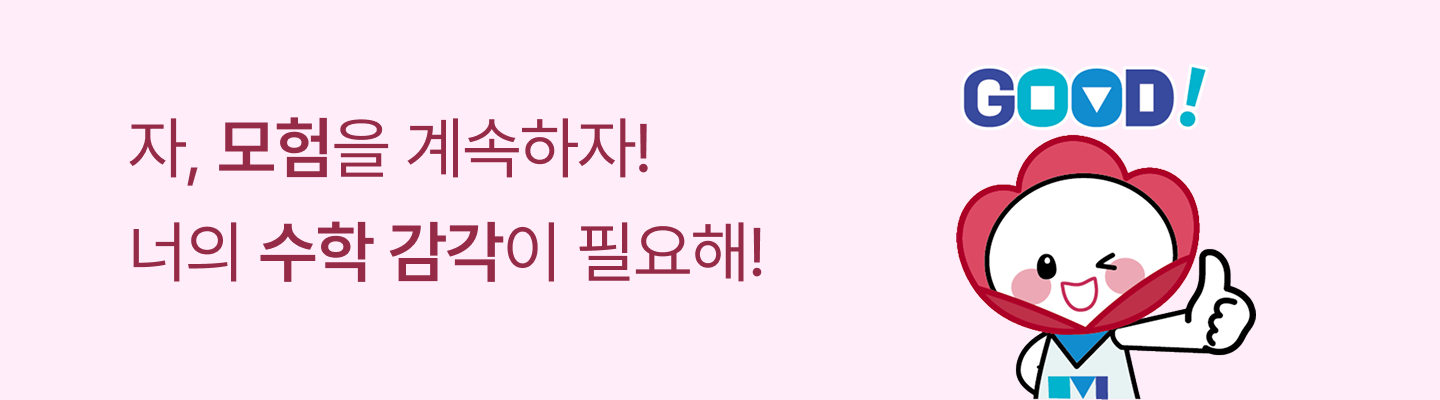
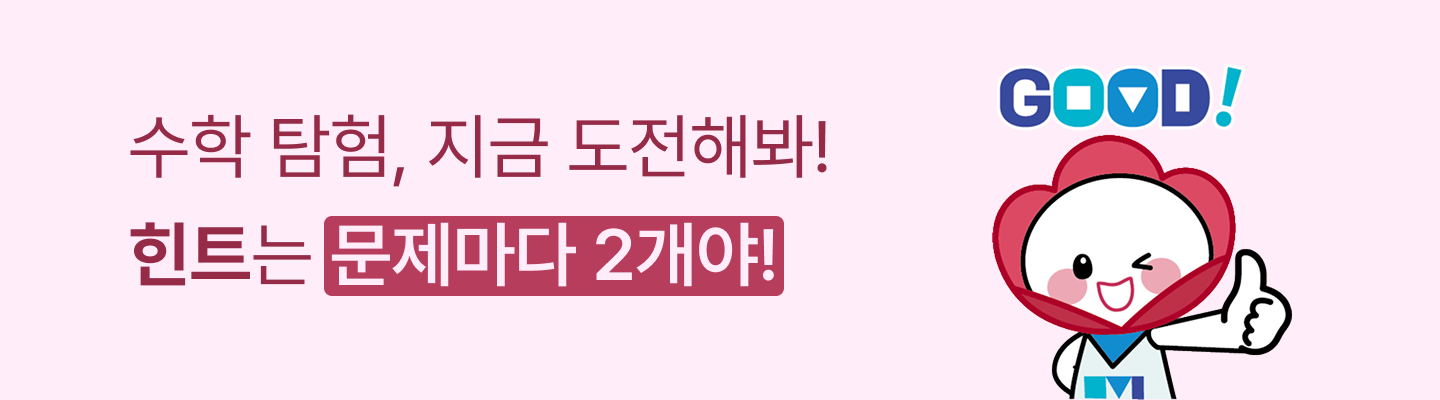
high_elementary_update

Changed region(s): [[0.6562, 0.15, 0.9062, 1.0], [0.0938, 0.54, 0.5625, 0.75], [0.0938, 0.27, 0.5938, 0.45]]

diff --git a/lib/mission/elementary_high/elementary_high_mission.dart b/lib/mission/elementary_high/elementary_high_mission.dart
@@ -3,6 +3,7 @@ import 'package:flutter/services.dart';
 import 'dart:convert';
 import 'package:math_escape/widgets/elementary_high_hint_popup.dart';
 import 'package:math_escape/widgets/elementary_high_answer_popup.dart';
+import 'package:material_symbols_icons/material_symbols_icons.dart';
 
 // MissionItem class as provided in the original code
 class MissionItem {
@@ -86,32 +87,30 @@ class _ElementaryHighMissionScreenState
 
   void _showHintDialog() {
     final MissionItem currentMission = missionList[currentQuestionIndex];
+
+    int newHintCounter = (hintCounter % 2) + 1;
+
     setState(() {
-      hintCounter++;
+      hintCounter = newHintCounter;
     });
 
     String title;
     String content;
 
-    if (hintCounter == 1) {
-      title = '첫 번째 힌트';
+    if (newHintCounter == 1) {
+      title = '푸리 힌트 1 / 2';
       content = currentMission.hint1;
-    } else if (hintCounter == 2) {
-      title = '마지막 힌트';
-      content = currentMission.hint2;
     } else {
-      // 힌트를 2번 이상 누른 경우, 마지막 힌트를 계속 보여줍니다.
-      title = '마지막 힌트';
+      title = '푸리 힌트 2 / 2';
       content = currentMission.hint2;
     }
 
     showDialog(
       context: context,
-      builder: (_) =>
-          HintDialog(
-            hintTitle: title,
-            hintContent: content,
-          ),
+      builder: (_) => HintDialog(
+        hintTitle: title,
+        hintContent: content,
+      ),
     );
   }
 
@@ -194,8 +193,9 @@ class _ElementaryHighMissionScreenState
                       width: double.infinity,
                       fit: BoxFit.cover,
                     ),
+                    const SizedBox(height: 24),
                     Padding(
-                      padding: const EdgeInsets.all(16.0),
+                      padding: const EdgeInsets.all(8.0),
                       child: Column(
                         crossAxisAlignment: CrossAxisAlignment.stretch,
                         children: [
@@ -257,7 +257,7 @@ class _ElementaryHighMissionScreenState
                                         borderRadius: BorderRadius.circular(
                                             8.0),
                                         borderSide: const BorderSide(
-                                            color: Colors.transparent),
+                                            color: const Color(0xffaaaaaa)),
                                       ),
                                       focusedBorder: OutlineInputBorder(
                                         borderRadius: BorderRadius.circular(
@@ -294,7 +294,7 @@ class _ElementaryHighMissionScreenState
                   height: 56,
                   child: ElevatedButton(
                     style: ElevatedButton.styleFrom(
-                      backgroundColor: Colors.white,
+                      backgroundColor: const Color(0xffffedfa),
                       elevation: 1,
                       shape: RoundedRectangleBorder(
                         borderRadius: BorderRadius.circular(12.0),
@@ -302,15 +302,23 @@ class _ElementaryHighMissionScreenState
                       ),
                     ),
                     onPressed: _showHintDialog,
-                    child: Text(
-                      '힌트보기',
-                      style: TextStyle(
-                          color: mainColor,
-                          fontSize: 16,
-                          fontWeight: FontWeight.bold),
-                    ),
+                      child: Row(
+                        mainAxisSize: MainAxisSize.min, // 버튼 크기를 내용에 맞춤
+                        children: [
+                          Icon(Symbols.tooltip_2, color: mainColor, size: 18), // 아이콘
+                          SizedBox(width: 4), // 간격
+                          Text(
+                            '힌트',
+                            style: TextStyle(
+                              color: mainColor,
+                              fontSize: 16,
+                              fontWeight: FontWeight.bold,
+                            ),
+                          ),
+                        ],
+                      ),
                   ),
-                ),
+                )
               ),
               const SizedBox(width: 16),
               Expanded(

diff --git a/README.md b/README.md
@@ -23,9 +23,12 @@ math_escape/
 │   │   ├── high/
 │   │   │   ├── high_mission_answer.dart
 │   │   │   └── high_mission_question.dart
-│   │   └── middle/
-│   │       ├── middle_mission_answer.dart
-│   │       └── middle_mission_question.dart
+│   │   ├── middle/
+│   │   │   ├── middle_mission_answer.dart
+│   │   │   └── middle_mission_question.dart
+│   │   └── elementary_high/
+│   │       ├── elementary_high_mission_answer.dart
+│   │       └── elementary_high_mission_question.dart
 │   ├── screens/
 │   │   ├── splash_screen.dart
 │   │   ├── main_screen.dart
@@ -43,30 +46,51 @@ math_escape/
 │   │   │   └── answer_widgets.dart
 │   │   ├── middle/
 │   │   ├── elementary_high/
+│   │   │   ├── elementary_high_mission.dart
+│   │   │   └── elementary_high_talk.dart
 │   │   └── elementary_low/
 │   ├── data/
 │   │   ├── high/
 │   │   │   ├── high_level_question.json
 │   │   │   └── high_level_answer.json
-│   │   └── middle/
-│   │       ├── middle_question.json
-│   │       └── middle_answer.json
+│   │   ├── middle/
+│   │   │   ├── middle_question.json
+│   │   │   └── middle_talk.json
+│   │   └── elementary_high/
+│   │       ├── elementary_high_question.json
+│   │       └── elementary_high_context.json
 │   ├── utils/
 │   └── widgets/
 │       ├── school_level_card.dart
 │       ├── content_card.dart
-│       └── answer_popup.dart
+│       ├── answer_popup.dart
+│       ├── elementary_high_hint_popup.dart
+│       └── elementary_high_answer_popup.dart
 ├── assets/
 │   ├── images/
 │   │   ├── logo.png
+│   │   ├── logo_icon.png
 │   │   ├── introduce.png
+│   │   ├── introduce_program.png
+│   │   ├── insta_logo.png
+│   │   ├── visual03.png
+│   │   ├── banner.png
+│   │   ├── bsbackground.png
+│   │   ├── hint_puri.png
+│   │   ├── puri_appear.gif
+│   │   ├── puri_manse.png
+│   │   ├── puri_stand.png
 │   │   ├── correct.png
 │   │   ├── wrong.png
-│   │   └── pitagoras1-4.png
+│   │   ├── pitagoras1.png
+│   │   ├── pitagoras2.png
+│   │   ├── pitagoras3.png
+│   │   └── pitagoras4.png
 │   ├── audio/
 │   │   └── high_intro_sound.mp3
 │   └── fonts/
-│       └── Pretendard (9 weights)
+│       ├── Pretendard (9 weights)
+│       └── SBAggro (B, M, L)
 └── android/ ios/ web/ windows/ linux/ macos/
 ```
 
@@ -78,17 +102,20 @@ math_escape/
 - **HighIntroScreen**: 고등 미션 소개, 규칙, QR 안내, 오디오 재생
 - **MiddleIntroScreen**: 중등 미션 소개 (구현 예정)
 - **QRScanScreen**: 카메라 권한, QR 인식
+- **ElementaryHighTalkScreen**: 초등 고학년 도입 대화(스토리) 진행
+- **ElementaryHighMissionScreen**: 초등 고학년 미션(문제/정답/힌트)
 
 ### 미션 (Missions)
 - **HighMission**: 문제/타이머/정답입력/힌트, 공통 위젯(`DescriptionLevelBox`, `QuestionBalloon`, `TimerInfoBox`)
 - **HighAnswer**: 해설/정답/다음문제, 공통 위젯(`DescriptionLevelBox`, `ExplanationBox`, `ClueBox`, `TimerInfoBox`)
 - **MiddleMission**: 중등 미션 (구현 예정)
-- **ElementaryMission**: 초등 미션 (구현 예정)
+- **ElementaryHigh**: 초등 고학년 대화 → 미션 흐름 구현 완료
 
 ### 공통 위젯 (Widgets)
 - **SchoolLevelCard**: 학년별 선택 카드
 - **ContentCard**: 기타 콘텐츠 카드
 - **AnswerPopup**: 정답/오답 피드백 팝업
+- **ElementaryHighHintPopup / ElementaryHighAnswerPopup**: 초등 고학년 전용 팝업
 - **DescriptionLevelBox**: 설명+레벨 박스
 - **QuestionBalloon**: 문제 말풍선
 - **TimerInfoBox**: 하단 타이머 박스
@@ -130,6 +157,10 @@ math_escape/
 - **MiddleMissionQuestion**: 중등 문제 데이터 모델
 - **MiddleMissionAnswer**: 중등 정답 데이터 모델
 
+### 초등(고학년) 데이터
+- **ElementaryHighMissionQuestion**: `answer`는 문자열 배열, `hint1`, `hint2` 제공
+- **ElementaryHighMissionAnswer**: 정답/해설, `answerImage` 선택
+
 ### 콘텐츠 데이터
 - **ContentItem**
 ```dart
@@ -164,6 +195,9 @@ math_escape/
 - **url_launcher**: 외부 링크 열기
 - **flutter_math_fork**: 수학 공식 렌더링
 - **audioplayers**: 오디오 재생
+- **gif**: GIF 이미지 표시
+- **material_symbols_icons**: 머티리얼 심볼 아이콘
+- **cupertino_icons**: iOS 스타일 아이콘
 
 ## 🎵 오디오 및 폰트
 
@@ -172,11 +206,12 @@ math_escape/
 
 ### 폰트
 - **Pretendard**: 9가지 굵기 (Thin ~ Black)
+- **SBAggro**: B/M/L 굵기
 
 ## 📝 라이선스
 
 이 프로젝트는 부산수학문화관의 교육용 앱입니다.
 
-**버전**: 0.1.1  
+**버전**: 1.0.0+1  
 **최종 업데이트**: 2025년  
 **개발 환경**: Flutter 3.8.1, Dart 3.8.1

diff --git a/API_DOCUMENTATION.md b/API_DOCUMENTATION.md
@@ -22,6 +22,10 @@
 - **MiddleMissionQuestion**: 중등 문제 데이터 모델
 - **MiddleMissionAnswer**: 중등 정답/해설 데이터 모델
 
+### 초등(고학년) 모델
+- **ElementaryHighMissionQuestion**: 정답 배열(`answer`), 힌트(`hint1`, `hint2`), 이미지(optional)
+- **ElementaryHighMissionAnswer**: 정답/해설, 이미지(optional)
+
 ### 공통 모델
 - **ContentItem**: 콘텐츠 카드 데이터 모델
 
@@ -42,6 +46,8 @@
 - **QRScanScreen**: 카메라 권한, QR 인식
 - **HighMission**: 문제/타이머/정답입력/힌트, 공통 위젯(`DescriptionLevelBox`, `QuestionBalloon`, `TimerInfoBox`), 스타일 상수(`high_mission_constants.dart`)
 - **HighAnswer**: 해설/정답/다음문제, 공통 위젯(`DescriptionLevelBox`, `ExplanationBox`, `ClueBox`, `TimerInfoBox`), 스타일 상수(`high_answer_constants.dart`)
+ - **ElementaryHighTalkScreen**: 초등 고학년 도입 대화(스토리) 진행
+ - **ElementaryHighMissionScreen**: 초등 고학년 미션 화면
 
 ---
 
@@ -94,7 +100,9 @@
 - **high_level_question.json**: 고등 문제 데이터
 - **high_level_answer.json**: 고등 정답 데이터
 - **middle_question.json**: 중등 문제 데이터
-- **middle_answer.json**: 중등 정답 데이터
+- (예정) middle_talk.json: 중등 대화 데이터
+- **elementary_high_question.json**: 초등 고학년 문제 데이터
+- **elementary_high_context.json**: 초등 고학년 대화 데이터
 
 ### 데이터 로딩
 - JSON 파일에서 문제/정답 데이터 로딩
@@ -127,9 +135,11 @@
 ### UI/UX 패키지
 - **flutter_spinkit**: ^5.2.1 - 로딩 애니메이션
 - **flutter_math_fork**: 0.7.4 - 수학 공식 렌더링
+ - **material_symbols_icons**: 4.2858.1 - 머티리얼 심볼 아이콘
 
 ### 미디어 패키지
 - **audioplayers**: ^5.2.1 - 오디오 재생
+ - **gif**: ^2.3.0 - GIF 표시
 
 ### 기본 패키지
 - **cupertino_icons**: ^1.0.8 - iOS 스타일 아이콘
@@ -147,5 +157,5 @@
 
 ---
 
-**문서 버전**: 0.1.0
+**문서 버전**: 1.0.0
 **최종 업데이트**: 2025년
